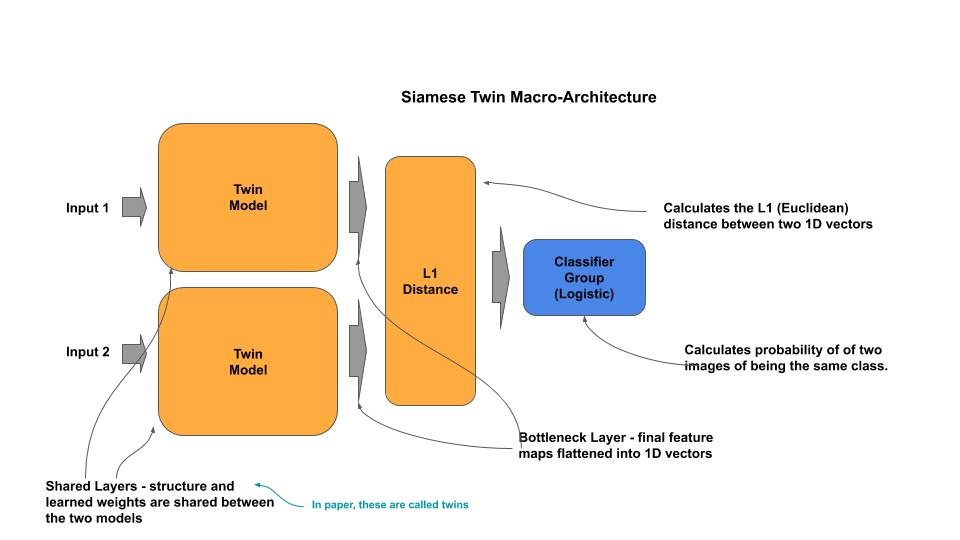
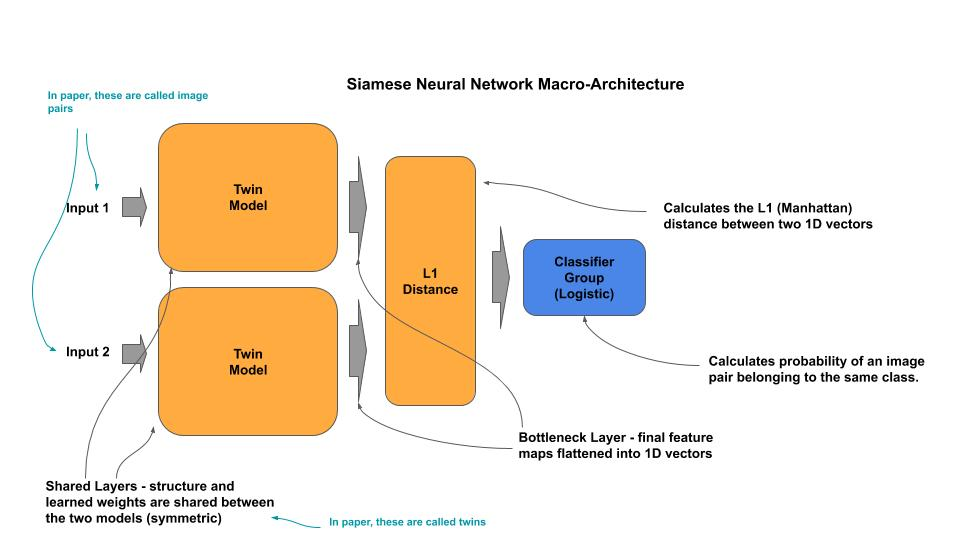
arch pics for siamese

diff --git a/zoo/siamese_twin/README.md b/zoo/siamese_twin/README.md
@@ -1,10 +1,16 @@
-# Siamese Twin
+# Siamese Neural Network
 
 [Paper](https://www.cs.cmu.edu/~rsalakhu/papers/oneshot1.pdf)
 
 ## Macro-Architecture
 
+### Siamese Neural Network
+
 <img src="macro.jpg">
+
+### Twin Model
+
+<img src="macro-twin.jpg">
 
 ## Micro-Architecture
 
